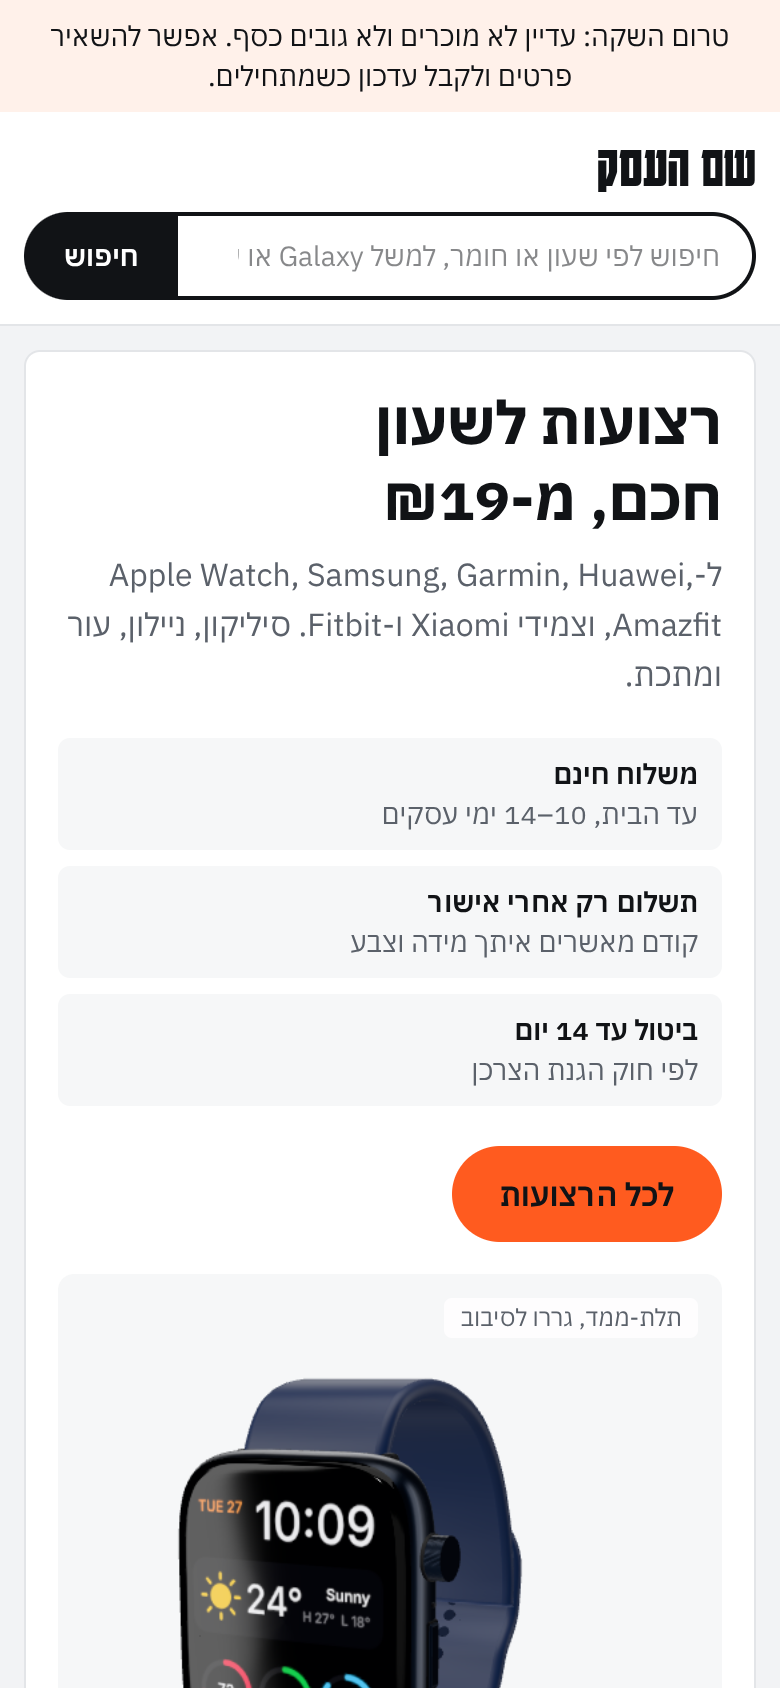
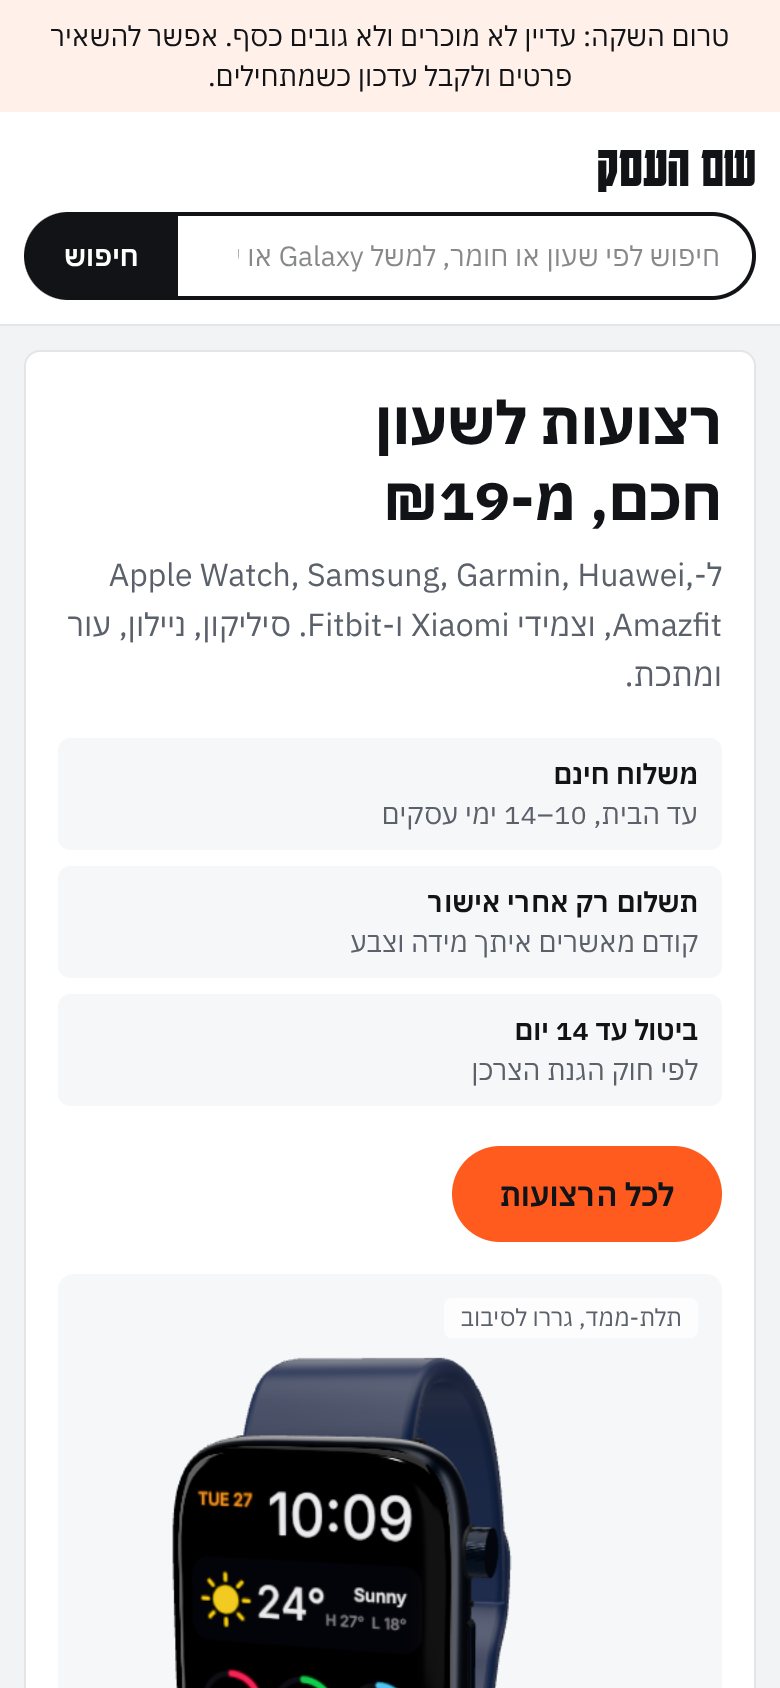
השעון אמיתי מהשנייה הראשונה: תמונה במקום הציור הישן, ובלי קנבס מתוח
- Watch3D: עד שהתלת-ממד נטען מוצגת התמונה המצולמת של אותו מוצר וצבע (poster),
  במקום הציור השטוח הישן (BandPreview נמחק). גם בלי WebGL מוצגת התמונה.
- watchScene: מתחילים באותה זווית ובאותו גודל של התמונה, בלי סיבוב וגדילה בכניסה,
  כך שהמעבר לא מורגש. מציירים פריים מחדש אחרי שינוי גודל ואחרי שהגופן של פני
  השעון נטען, גם כשהלולאה נחה (במצב "הפחתת תנועה" הקנבס נשאר מתוח עד שגררו).
- README: פתיחת סשן מקומי באפליקציה למחשב (Local) בשביל Claude in Chrome.

Claude-Session: https://claude.ai/code/session_01Fwe7f53XDHbcXGYGYzQVNU

Changed region(s): [[0.2154, 0.8009, 0.6769, 1.0]]

diff --git a/app/components/watchScene.ts b/app/components/watchScene.ts
@@ -9,6 +9,11 @@ export type WatchScene = {
   dispose(): void;
 };
 
+// הזווית שבה התצוגה החיה מתחילה: זו של התמונה "front" (scripts/render-products.mjs), שמוצגת עד הפריים הראשון
+const START_ANGLE = -0.35;
+// כמה מהפריים המודל ממלא. זהה בתצוגה החיה ובצילום, כדי שהמעבר מהתמונה לתלת-ממד לא יורגש
+const FILL = 1.02;
+
 export function createWatchScene(
   host: HTMLElement,
   initial: {
@@ -80,13 +85,12 @@ export function createWatchScene(
     camera.aspect = w / h;
     const halfFov = THREE.MathUtils.degToRad(camera.fov / 2);
     const fit = Math.min(Math.tan(halfFov), Math.tan(halfFov) * camera.aspect);
-    // בצילום הגלריה המוצר ממלא יותר מהפריים, כמו בתמונות מוצר
-    const fill = still ? 1.02 : 0.94;
-    const dist = radius / (fit * fill);
+    const dist = radius / (fit * FILL);
     camera.position.set(0, dist * 0.1, dist);
     camera.lookAt(0, -radius * 0.04, 0);
     camera.updateProjectionMatrix();
-    if (still) start();
+    // מציירים מחדש בגודל החדש גם כשהלולאה נחה, אחרת הקנבס נשאר מתוח
+    start();
   }
   const ro = new ResizeObserver(resize);
   ro.observe(host);
@@ -95,7 +99,7 @@ export function createWatchScene(
   let dragging = false;
   let lastX = 0;
   let velocity = 0;
-  let spin = -0.9;
+  let spin = START_ANGLE;
   const onDown = (e: PointerEvent) => {
     dragging = true;
     start();
@@ -130,7 +134,6 @@ export function createWatchScene(
   io.observe(host);
 
   const timer = new THREE.Timer();
-  let introT = reduceMotion ? 1 : 0;
   let raf = 0;
   let readyFired = false;
   // בצילום מחכים לגופן של פני השעון לפני הפריים הראשון
@@ -143,9 +146,6 @@ export function createWatchScene(
     timer.update();
     const dt = Math.min(timer.getDelta(), 0.05);
 
-    if (introT < 1) introT = Math.min(1, introT + dt / 1.4);
-    const ease = 1 - Math.pow(1 - introT, 3);
-
     if (!dragging) {
       if (!reduceMotion) spin += 0.32 * dt;
       spin += velocity;
@@ -154,11 +154,10 @@ export function createWatchScene(
     // השעון מסתובב גם עם הגלילה
     const scrollSpin = reduceMotion ? 0 : window.scrollY * 0.0022;
     const { watch } = model;
-    if (still) watch.rotation.y = initial.still!;
-    else watch.rotation.y = reduceMotion ? -0.5 + spin + 0.9 : spin - (1 - ease) * 1.6 + scrollSpin;
+    // מתחילים בדיוק בזווית של התמונה וממשיכים ממנה, בלי כניסה מונפשת
+    watch.rotation.y = still ? initial.still! : spin + scrollSpin;
     // השעון עומד על הרצועה, ולכן לא מרחף: רק מסתובב
     watch.rotation.x = 0.06;
-    watch.scale.setScalar(0.86 + 0.14 * ease);
 
     const k = reduceMotion ? 1 : 0.1;
     model.paint(current.lerp(target, k), caseCurrent.lerp(caseTarget, k));
@@ -184,12 +183,13 @@ export function createWatchScene(
   document.addEventListener("visibilitychange", onVisibility);
 
   resize();
-  if (still) {
-    model.ready.then(() => {
-      canRender = true;
-      start();
-    });
-  } else start();
+  // אחרי שהגופן של פני השעון נטען הם מצוירים מחדש. מציירים פריים, גם כשהלולאה נחה.
+  // בצילום מחכים לזה לפני הפריים הראשון
+  model.ready.then(() => {
+    canRender = true;
+    start();
+  });
+  start();
 
   return {
     setColor(hex) {
@@ -208,7 +208,7 @@ export function createWatchScene(
       scene.add(model.watch, model.shadow);
       measure();
       resize();
-      start();
+      model.ready.then(start);
     },
     dispose() {
       disposed = true;

diff --git a/app/components/Watch3D.tsx b/app/components/Watch3D.tsx
@@ -3,19 +3,21 @@
 import { useEffect, useRef, useState } from "react";
 import type { CaseKind, Material } from "@/lib/catalog";
 import type { WatchScene } from "./watchScene";
-import { BandPreview } from "./BandPreview";
 
-// שעון תלת-ממדי שמסתובב. עד שהוא נטען, או אם אין WebGL, מוצגת הדמיה שטוחה
+// שעון תלת-ממדי שמסתובב. עד שהוא נטען, או אם אין WebGL, מוצגת התמונה של אותו שעון (poster)
 export function Watch3D({
   color,
   caseKind,
   material,
+  poster,
   className = "",
   still,
 }: {
   color: string;
   caseKind: CaseKind;
   material: Material;
+  /** התמונה המצולמת של אותו מוצר וצבע מלפנים (renderSrc). התלת-ממד מתחיל באותה זווית ובאותו גודל */
+  poster?: string;
   className?: string;
   /** זווית קבועה בלי תנועה, לצילום תמונות */
   still?: number;
@@ -65,21 +67,21 @@ export function Watch3D({
       aria-label="שעון חכם עם הרצועה בצבע שנבחר. אפשר לגרור כדי לסובב."
       data-ready={ready}
     >
-      {/* בצילום תמונות אין הדמיה שטוחה ואין מעבר, כדי שלא תישאר שכבה חצי שקופה בתמונה */}
-      {still === undefined && (
-        <div
-          className={`absolute inset-0 grid place-items-center transition-opacity duration-500 ${
-            ready ? "opacity-0" : "opacity-100"
-          }`}
+      {/* עד הפריים הראשון: התמונה של אותו שעון, כך שמהרגע הראשון רואים שעון אמיתי. בצילום אין תמונה ואין מעבר */}
+      {still === undefined && poster && (
+        // eslint-disable-next-line @next/next/no-img-element -- תמונה מקומית שכבר מוקטנת, בלי צורך באופטימיזציה
+        <img
+          src={poster}
+          alt=""
           aria-hidden
-        >
-          <BandPreview hex={color} type={material === "magnetic" ? "magnetic" : "silicone"} className="h-3/4 w-auto" />
-        </div>
+          decoding="async"
+          className={`absolute inset-0 h-full w-full object-contain transition-opacity duration-300 ${ready ? "opacity-0" : "opacity-100"}`}
+        />
       )}
       {!failed && (
         <div
           ref={host}
-          className={`absolute inset-0 ${still === undefined ? "transition-opacity duration-700" : ""} ${ready ? "opacity-100" : "opacity-0"}`}
+          className={`absolute inset-0 ${still === undefined ? "transition-opacity duration-300" : ""} ${ready ? "opacity-100" : "opacity-0"}`}
         />
       )}
     </div>

diff --git a/app/page.tsx b/app/page.tsx
@@ -6,6 +6,7 @@ import { coverFor } from "@/lib/photos";
 import { priceFor } from "@/lib/pricing";
 import { canonical } from "@/lib/seo";
 import { CatalogGrid, CatalogGridStatic } from "./components/shop/CatalogGrid";
+import { renderSrc } from "./components/shop/images";
 import { DraftBanner, SiteFooter, SiteHeader } from "./components/SiteChrome";
 import { Watch3D } from "./components/Watch3D";
 
@@ -15,6 +16,9 @@ export const metadata: Metadata = {
 
 const minPrice = Math.min(...products.map((p) => priceFor(p.cost)));
 const covers = Object.fromEntries(products.map((p) => [p.slug, coverFor(p)]));
+
+// השעון בפתיחה: רצועת סיליקון ספורט בכחול כהה. ממנה גם התמונה שמוצגת עד שהתלת-ממד נטען
+const HERO = { slug: "apple-silicone-sport", color: "navy" } as const;
 
 const promises = [
   { title: "משלוח חינם", text: `עד הבית, ${delivery.homeText}` },
@@ -47,7 +51,13 @@ export default function Home() {
             </a>
           </div>
           <div className="relative mx-auto aspect-square w-full max-w-[360px] rounded-lg bg-stage">
-            <Watch3D color={colorById("navy").hex} caseKind="apple" material="silicone" className="absolute inset-0" />
+            <Watch3D
+              color={colorById(HERO.color).hex}
+              caseKind="apple"
+              material="silicone"
+              poster={renderSrc(HERO.slug, HERO.color)}
+              className="absolute inset-0"
+            />
             <span className="absolute top-3 right-3 rounded bg-paper/90 px-2 py-0.5 text-xs text-graphite">תלת-ממד, גררו לסיבוב</span>
           </div>
         </section>

diff --git a/app/components/shop/Gallery.tsx b/app/components/shop/Gallery.tsx
@@ -60,7 +60,13 @@ export function Gallery({ order, photos }: { order: ProductOrder; photos: Photo[
   const view = (item: Item, i: number) => (
     <div key={keyOf(item)} className="relative aspect-square w-full shrink-0 snap-center bg-stage md:rounded-lg">
       {item.kind === "3d" ? (
-        <Watch3D color={hex} caseKind={caseKindOf(product)} material={product.material} className="absolute inset-0" />
+        <Watch3D
+          color={hex}
+          caseKind={caseKindOf(product)}
+          material={product.material}
+          poster={renderSrc(product.slug, color)}
+          className="absolute inset-0"
+        />
       ) : item.kind === "photo" ? (
         <Image
           src={item.src}
